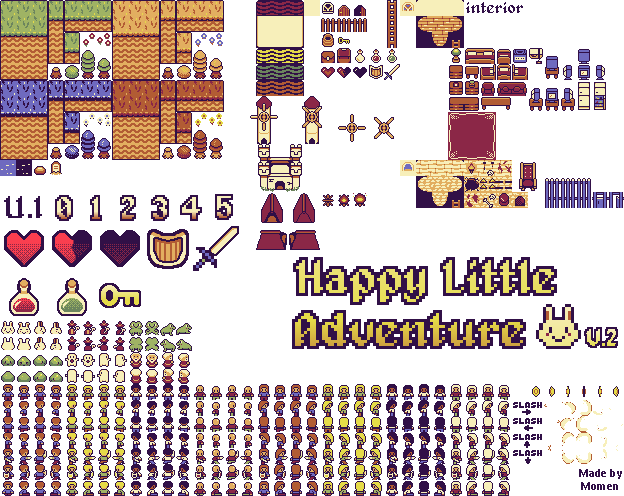
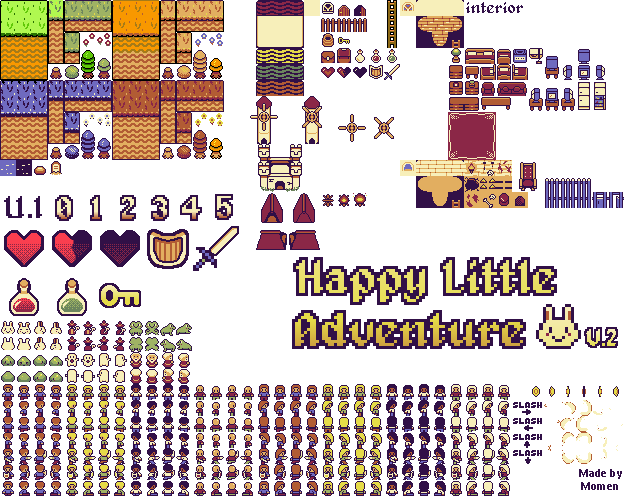
changed color palette

diff --git a/app/main.js b/app/main.js
@@ -3784,8 +3784,8 @@ vec4 frag(vec2 pos, vec2 uv, vec4 color, sampler2D tex) {
         "k": () => [sprite("grass-y-br")]
       } }),
       addLevel([
-        "                                      ",
-        "    0                      0          ",
+        "                 02023                ",
+        "    0            1313      0          ",
         "322 1         3            1   0      ",
         "2 0         0                  1      ",
         "3 1         1     4               0   ",
@@ -3799,7 +3799,16 @@ vec4 frag(vec2 pos, vec2 uv, vec4 color, sampler2D tex) {
         "11   1                                ",
         "                               4      ",
         "                               5      ",
-        "                               6      "
+        "                               6      ",
+        "                                      ",
+        " 7      7                             ",
+        " 8      8                             ",
+        "                                      ",
+        "    7       7                         ",
+        "    8       8                         ",
+        " 7 7                                  ",
+        "7878                                  ",
+        "8 8                                   "
       ], { tileWidth: 16, tileHeight: 16, tiles: {
         0: () => [sprite("tree-1")],
         1: () => [sprite("tree-2")],
@@ -3841,7 +3850,7 @@ vec4 frag(vec2 pos, vec2 uv, vec4 color, sampler2D tex) {
 
   // src/main.js
   ra({ width: window.innerWidth, height: window.innerHeight });
-  setBackground(Color.fromHex("6f6abf"));
+  setBackground(Color.fromHex("88d8f8"));
   assetLoader();
   var scenes = /* @__PURE__ */ new Map([
     ["world", () => {

diff --git a/src/scenes/world.js b/src/scenes/world.js
@@ -53,8 +53,8 @@ export default function world() {
         }}),
 
         addLevel([
-            '                                      ',
-            '    0                      0          ',
+            '                 02023                ',
+            '    0            1313      0          ',
             '322 1         3            1   0      ',
             '2 0         0                  1      ',
             '3 1         1     4               0   ',
@@ -68,7 +68,16 @@ export default function world() {
             '11   1                                ',
             '                               4      ',
             '                               5      ',
-            '                               6      '
+            '                               6      ',
+            '                                      ',
+            ' 7      7                             ',
+            ' 8      8                             ',
+            '                                      ',
+            '    7       7                         ',
+            '    8       8                         ',
+            ' 7 7                                  ',
+            '7878                                  ',
+            '8 8                                   '
         ],{tileWidth: 16, tileHeight: 16, tiles: {
             0: () => [sprite('tree-1')],
             1: () => [sprite('tree-2')],

diff --git a/src/main.js b/src/main.js
@@ -4,7 +4,7 @@ import world from './scenes/world'
 import { enableFreeCam, zoomCam } from './debugTools/camTools'
 
 kaboom({width: window.innerWidth, height: window.innerHeight })
-setBackground(Color.fromHex('6f6abf')) // Alt color : 589ffc
+setBackground(Color.fromHex('88d8f8')) // Alt color : 589ffc
 assetLoader()
 
 const scenes = new Map([
